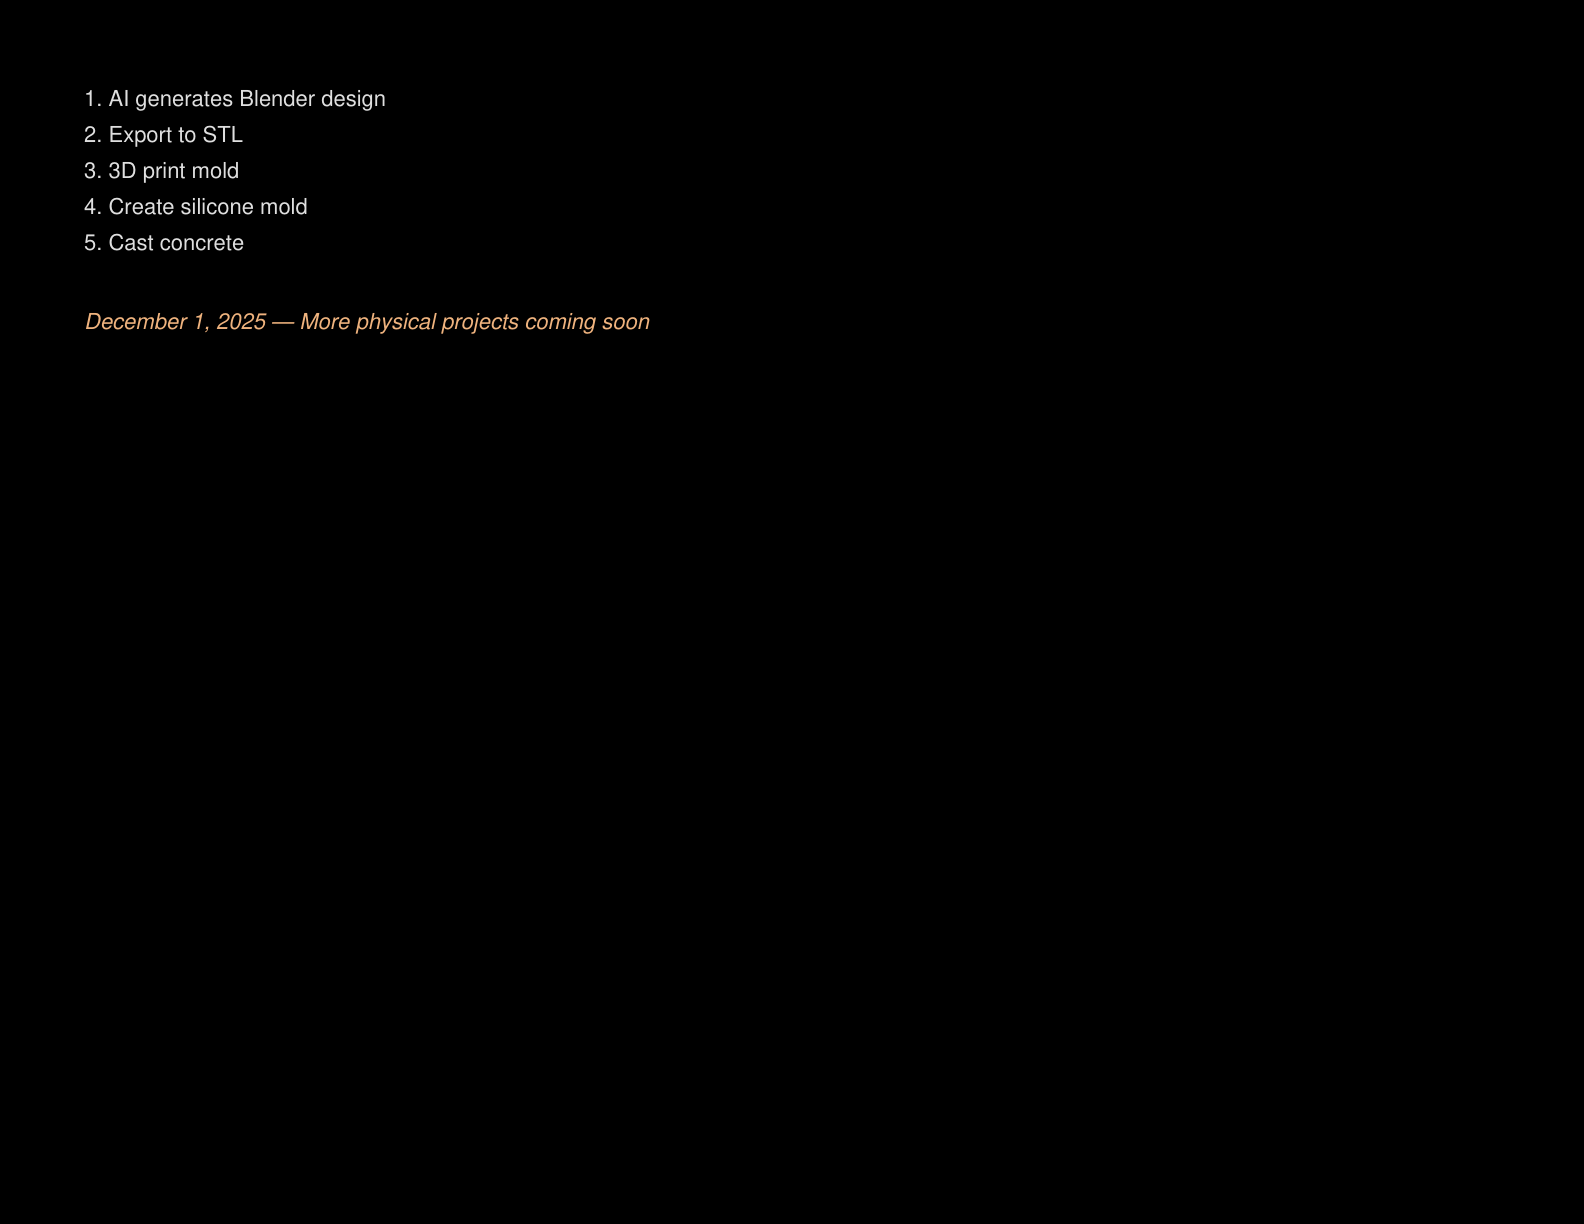
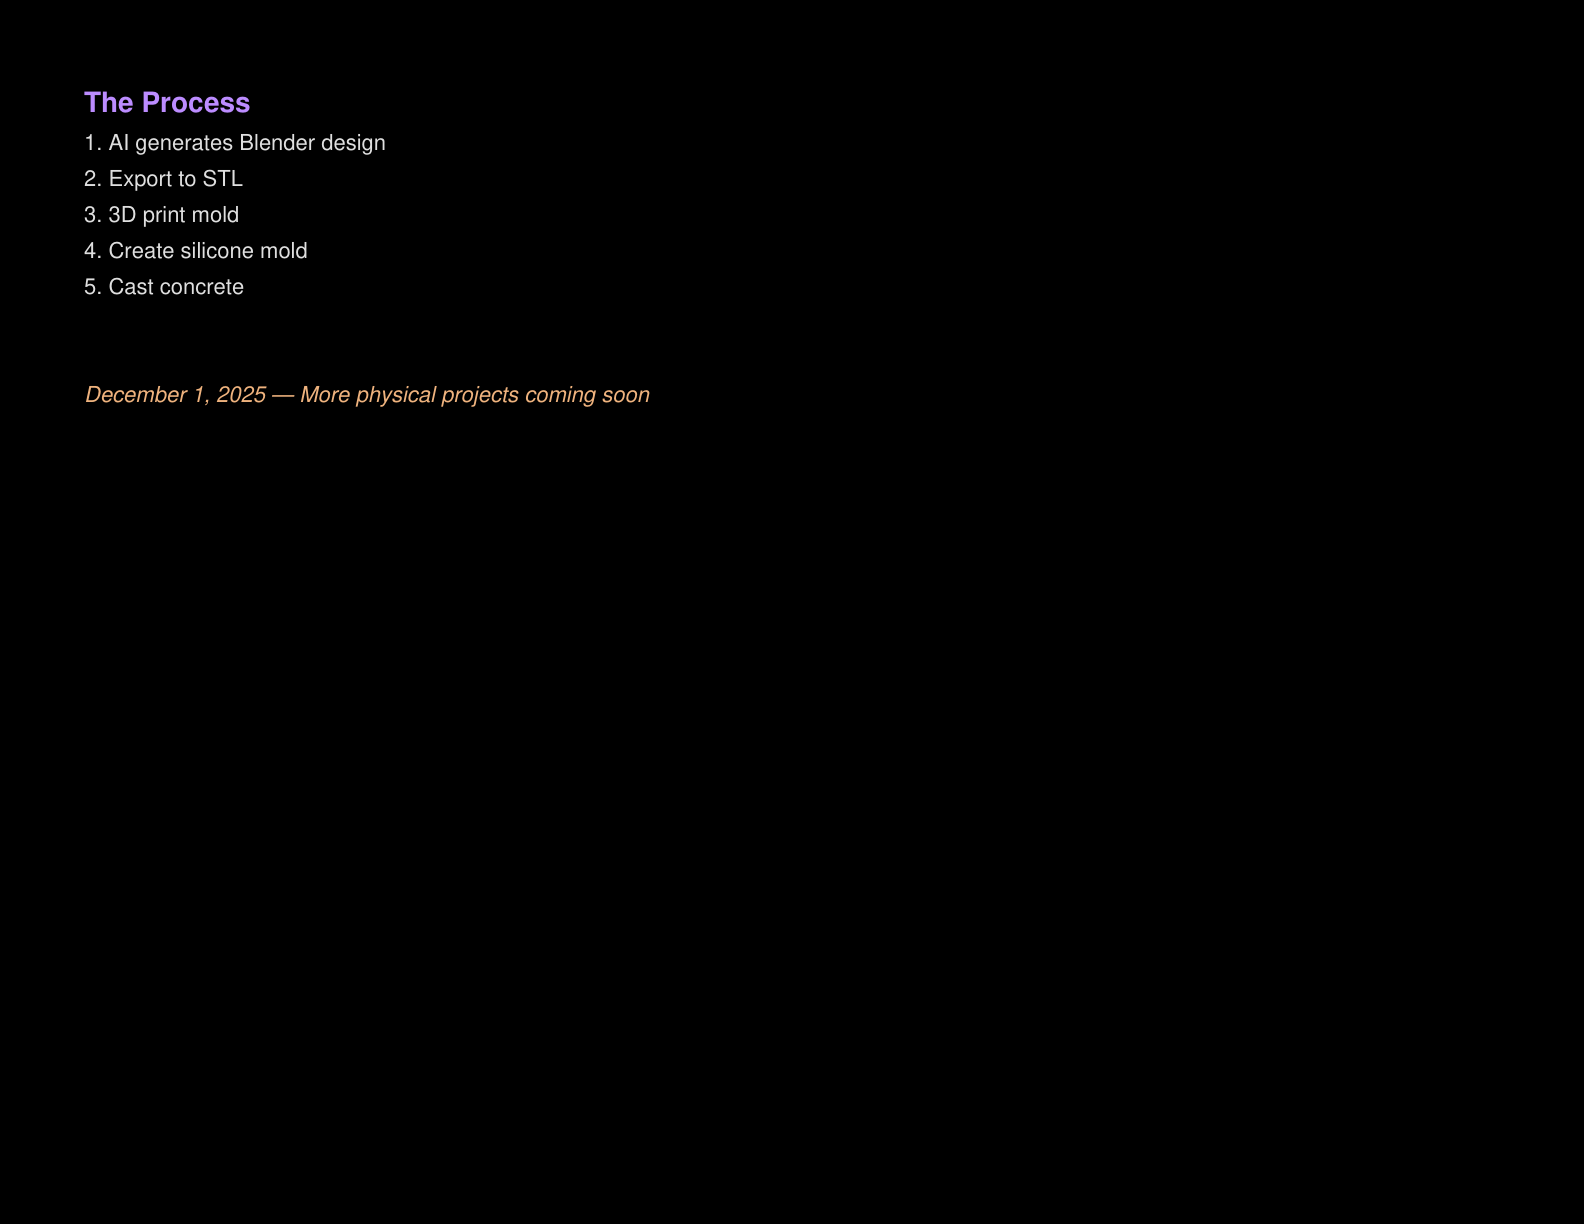
Fix Blender section slide formatting
- Slide 23: Title slide (Blender: Concrete Sign Mold Design)
- Slide 24: Concrete sign image (full slide)
- Slide 25: The Process steps

Each section now has its own dedicated slide for proper formatting.

Changed region(s): [[0.0619, 0.0621, 0.4021, 0.2794], [0.0619, 0.3105, 0.4021, 0.3415]]

diff --git a/generate_pdf.py b/generate_pdf.py
@@ -719,15 +719,18 @@ def create_pdf():
     body.append(Spacer(1, 0.2*inch))
     
     body.append(Paragraph("Blender + AI workflow for creating physical objects", normal_style))
-    body.append(Spacer(1, 0.3*inch))
+    body.append(Spacer(1, 0.5*inch))
+    body.append(PageBreak())
     
-    # Concrete sign image
+    # Concrete sign image (separate slide)
     img = get_scaled_image('/opt/opencode/src/self-2026/assets/concrete_sign.png', 7.5*inch, 6.5*inch)
     if img:
         body.append(img)
     
     body.append(Spacer(1, 0.3*inch))
+    body.append(PageBreak())
     
+    # The Process (separate slide)
     body.append(Paragraph("The Process", subheading_style))
     body.append(Paragraph("1. AI generates Blender design", normal_style))
     body.append(Paragraph("2. Export to STL", normal_style))
@@ -735,7 +738,7 @@ def create_pdf():
     body.append(Paragraph("4. Create silicone mold", normal_style))
     body.append(Paragraph("5. Cast concrete", normal_style))
     
-    body.append(Spacer(1, 0.3*inch))
+    body.append(Spacer(1, 0.5*inch))
     body.append(Paragraph("December 1, 2025 — More physical projects coming soon", humor_style))
     
     body.append(PageBreak())